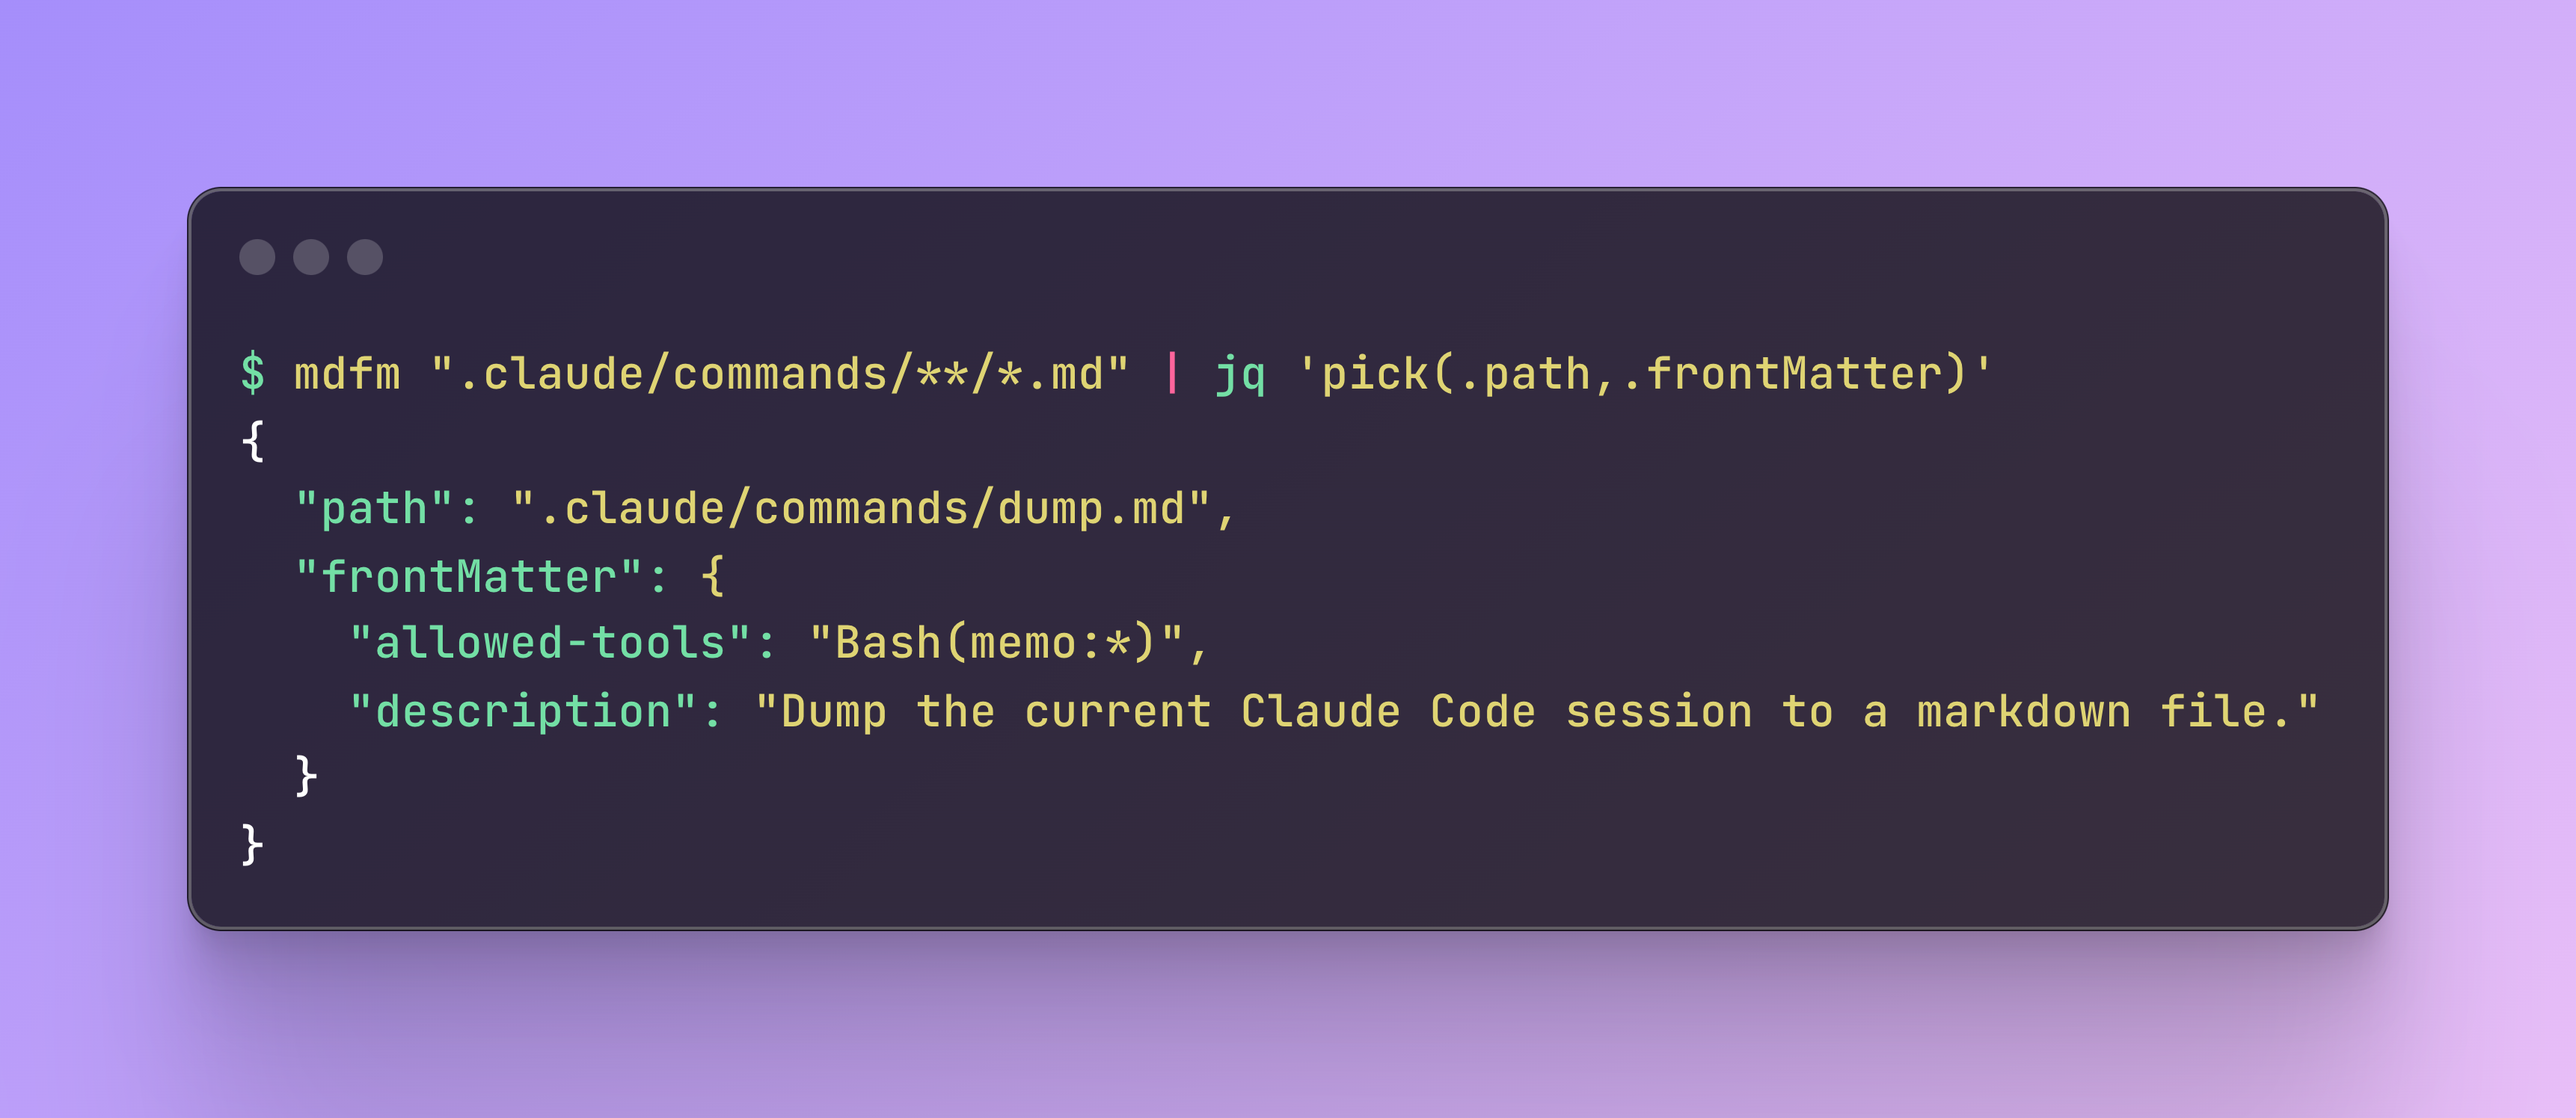
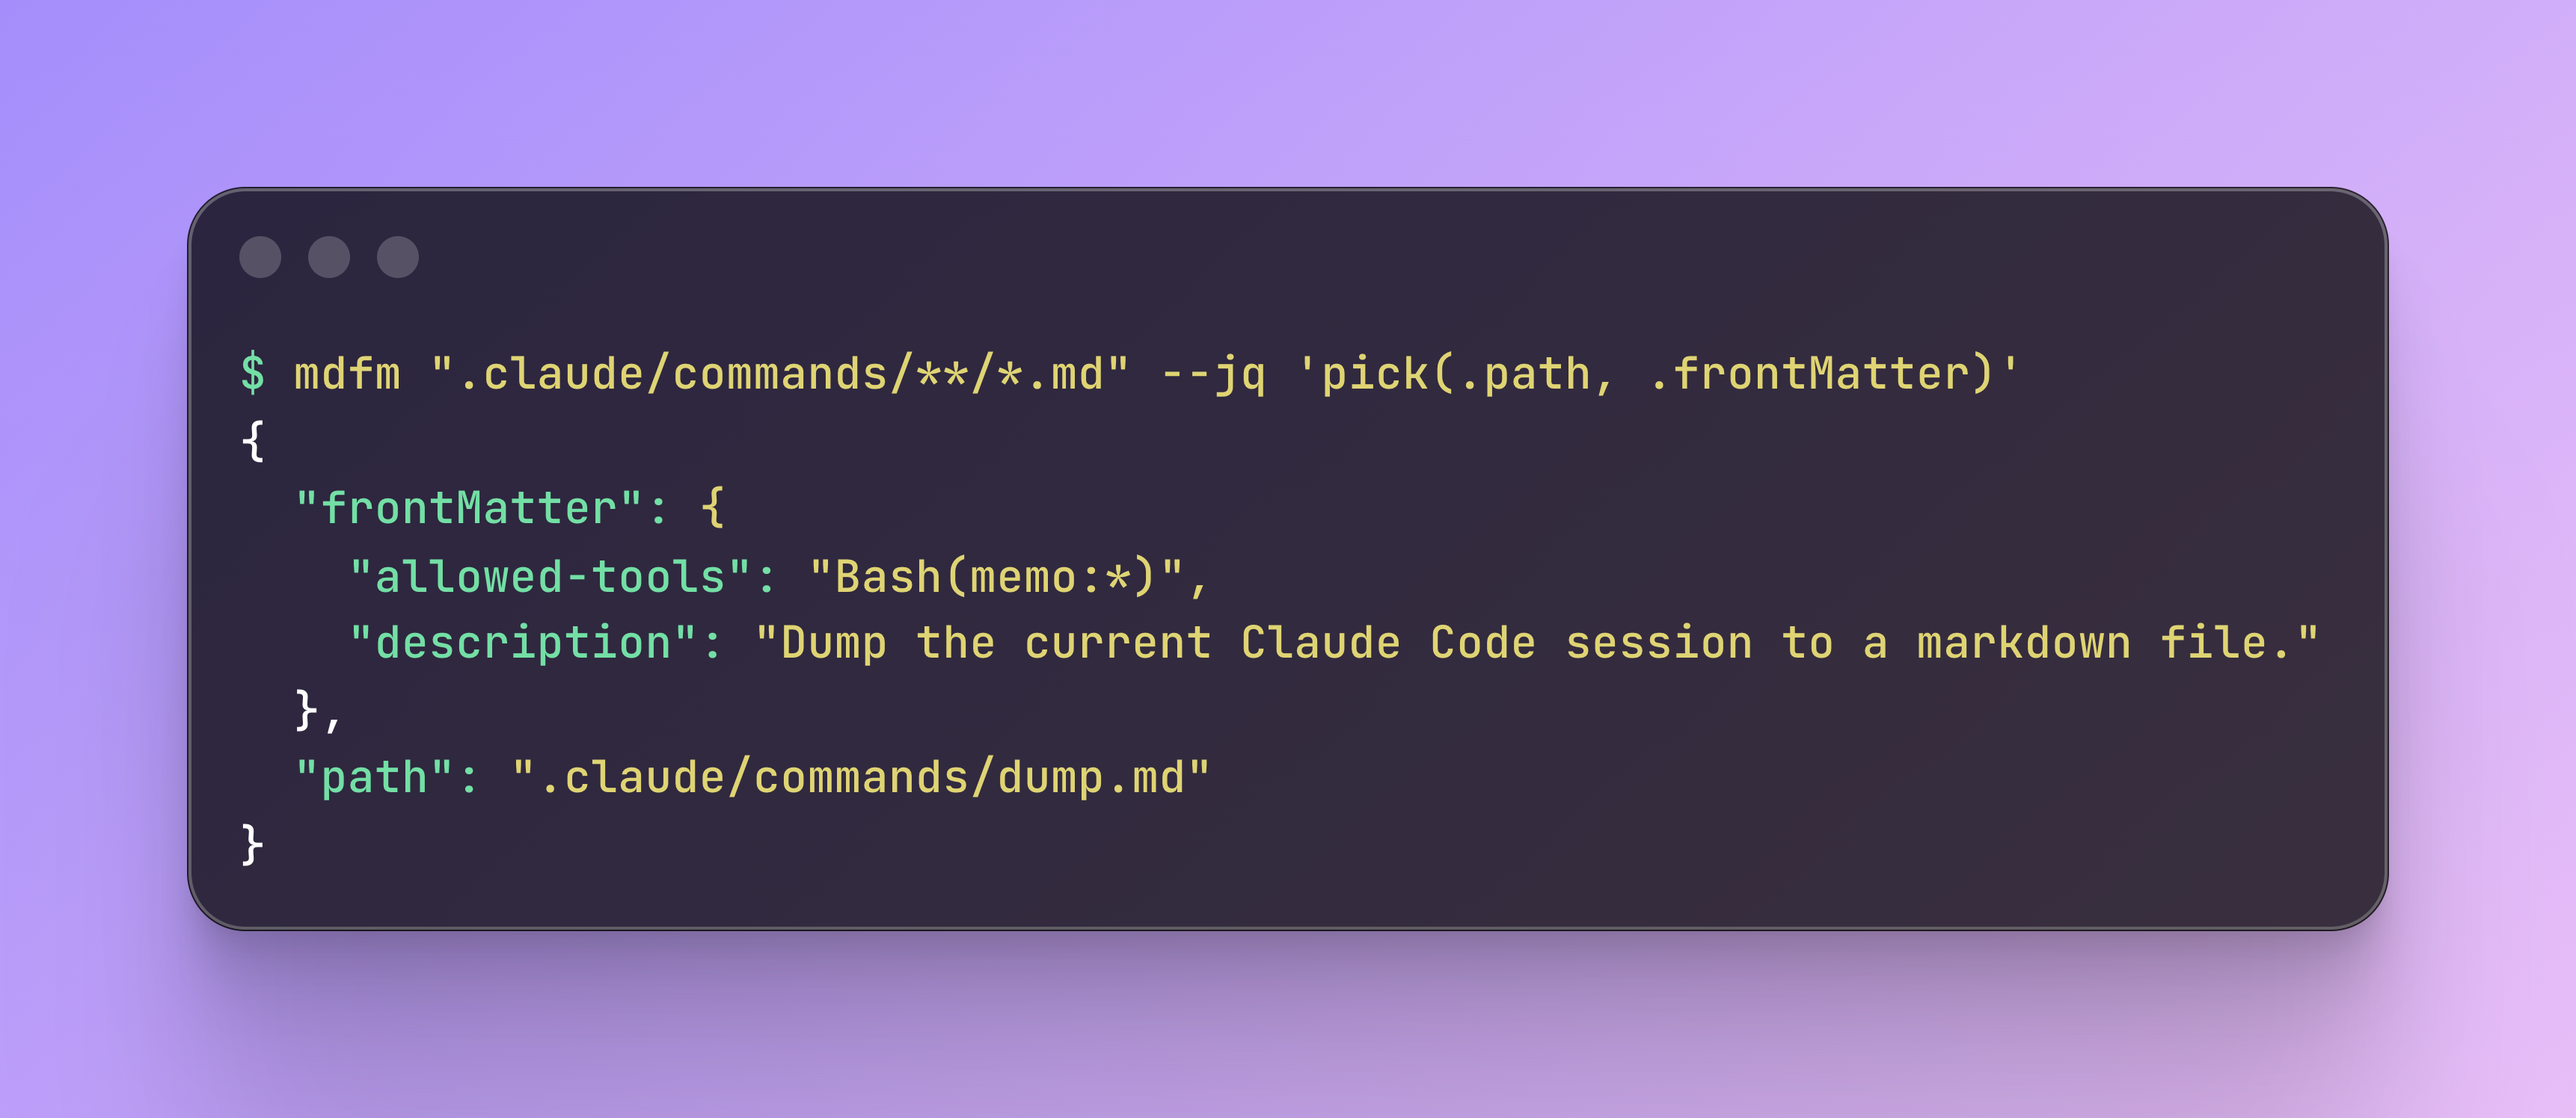
feat: filter output with jq via --jq flag (#26)
* chore(deps): add gojq

* feat: filter output with jq via --jq flag

* fix build config

* update image to use --jq flag

* fix err handling

* escape filter

* wrap err

diff --git a/cmd/mdfm/payload.go b/cmd/mdfm/payload.go
@@ -1,0 +1,88 @@
+package main
+
+import (
+	"encoding/json"
+	"errors"
+	"io"
+
+	"github.com/itchyny/gojq"
+)
+
+type (
+	jsonPayload struct {
+		Body        string `json:"body"`
+		Path        string `json:"path"`
+		FrontMatter any    `json:"frontMatter"`
+	}
+
+	// payloadPrinter writes a payload as JSON using a captured encoder.
+	payloadPrinter func(payload jsonPayload) error
+)
+
+// AsMap converts the jsonPayload struct to a map[string]any.
+func (p jsonPayload) AsMap() map[string]any {
+	jsonData, marshalErr := json.Marshal(p)
+	if marshalErr != nil {
+		return map[string]any{}
+	}
+
+	var result map[string]any
+	if err := json.Unmarshal(jsonData, &result); err != nil {
+		return map[string]any{}
+	}
+
+	return result
+}
+
+func NewAppropriatePrinter(output io.Writer, jqFilter string) (payloadPrinter, error) {
+	enc := json.NewEncoder(output)
+	enc.SetIndent("", "  ")
+
+	var jqCode *gojq.Code
+	if jqFilter != "" {
+		var jqErr error
+		jqCode, jqErr = prepareJQ(jqFilter)
+		if jqErr != nil {
+			return nil, jqErr
+		}
+	}
+
+	if jqCode != nil {
+		return newJQPrinter(enc, jqCode)
+	}
+	return newPassthroughPrinter(enc), nil
+}
+
+func newPassthroughPrinter(enc *json.Encoder) payloadPrinter {
+	return func(payload jsonPayload) error {
+		return enc.Encode(payload)
+	}
+}
+
+func newJQPrinter(enc *json.Encoder, jqCode *gojq.Code) (payloadPrinter, error) {
+	if jqCode == nil {
+		return nil, errors.New("jqCode must not be nil")
+	}
+
+	return func(payload jsonPayload) error {
+		iter := jqCode.Run(payload.AsMap())
+
+		for {
+			v, ok := iter.Next()
+			if !ok {
+				break
+			}
+			if err, isErr := v.(error); isErr {
+				var e *gojq.HaltError
+				if errors.As(err, &e) && e.Value() == nil {
+					break
+				}
+				return err
+			}
+			if err := enc.Encode(v); err != nil {
+				return err
+			}
+		}
+		return nil
+	}, nil
+}

diff --git a/cmd/mdfm/mdfm.go b/cmd/mdfm/mdfm.go
@@ -2,10 +2,8 @@ package main
 
 import (
 	"bufio"
-	"encoding/json"
 	"errors"
 	"fmt"
-	"io"
 	"os"
 	"syscall"
 
@@ -25,12 +23,8 @@ type (
 		Pattern string `arg:"" name:"pattern" help:"Glob pattern to match (eg. '**/*.md')"`
 
 		Version kong.VersionFlag `short:"v"`
-	}
 
-	jsonPayload struct {
-		Body        string `json:"body"`
-		Path        string `json:"path"`
-		FrontMatter any    `json:"frontMatter"`
+		JQ string `name:"jq" help:"jq filter to apply to each JSON object."`
 	}
 )
 
@@ -41,8 +35,6 @@ func (cmd *CLI) Run() error {
 	}
 
 	wtr := bufio.NewWriter(os.Stdout)
-	printer := newPassthroughPrinter(wtr)
-
 	defer func() {
 		if err := wtr.Flush(); err != nil {
 			if !errors.Is(err, syscall.EPIPE) {
@@ -50,6 +42,11 @@ func (cmd *CLI) Run() error {
 			}
 		}
 	}()
+
+	printer, printerErr := NewAppropriatePrinter(wtr, cmd.JQ)
+	if printerErr != nil {
+		return fmt.Errorf("failed to configure output printer: %w", printerErr)
+	}
 
 	var hasErrors bool
 	for task := range resultChan {
@@ -85,18 +82,6 @@ func (cmd *CLI) Run() error {
 	}
 
 	return nil
-}
-
-// jsonPrinter writes a payload as JSON using a captured encoder.
-type jsonPrinter func(payload jsonPayload) error
-
-func newPassthroughPrinter(output io.Writer) jsonPrinter {
-	enc := json.NewEncoder(output)
-	enc.SetIndent("", "  ")
-
-	return func(payload jsonPayload) error {
-		return enc.Encode(payload)
-	}
 }
 
 func main() {

diff --git a/cmd/mdfm/jq.go b/cmd/mdfm/jq.go
@@ -1,0 +1,21 @@
+package main
+
+import (
+	"fmt"
+	"os"
+
+	"github.com/itchyny/gojq"
+)
+
+func prepareJQ(filter string) (*gojq.Code, error) {
+	jqQuery, jqErr := gojq.Parse(filter)
+	if jqErr != nil {
+		return nil, fmt.Errorf("error parsing jq filter %q: %w", filter, jqErr)
+	}
+	jqCode, jqCompileErr := gojq.Compile(jqQuery, gojq.WithEnvironLoader(os.Environ))
+	if jqCompileErr != nil {
+		return nil, fmt.Errorf("error compiling jq filter %q: %w", filter, jqCompileErr)
+	}
+
+	return jqCode, nil
+}

diff --git a/README.md b/README.md
@@ -6,7 +6,7 @@
 
 **mdfm** is a Go library and CLI tool that finds Markdown files using glob patterns and extracts their frontmatter metadata as JSON.
 
-![command `go run github.com/sushichan044/mdfm/cmd/mdfm@latest ".claude/commands/**/*.md" | jq 'pick(.path,.frontMatter)'` results: `{"path":".claude/commands/dump.md","frontMatter":{"allowed-tools":"Bash(memo:*)","description":"Dump the current Claude Code session to a markdown file."}}`](/docs/images/example.png)
+![command `go run github.com/sushichan044/mdfm/cmd/mdfm@latest ".claude/commands/**/*.md" --jq 'pick(.path, .frontMatter)'` results: `{"path":".claude/commands/dump.md","frontMatter":{"allowed-tools":"Bash(memo:*)","description":"Dump the current Claude Code session to a markdown file."}}`](/docs/images/example.png)
 
 ## Features
 
@@ -70,6 +70,15 @@ mdfm "README.md"
 
 # Find files with specific pattern
 mdfm "content/**/{blog,docs}/*.md"
+
+# Extract only titles using jq filter
+mdfm "content/posts/*.md" --jq '.frontMatter.title'
+
+# Extract multiple fields using jq
+mdfm "**/*.md" --jq 'pick(.path, .frontMatter.title, .frontMatter.tags)'
+
+# Filter published posts
+mdfm "content/**/*.md" --jq 'select(.frontMatter.published == true)'
 ```
 
 ### Output Format
@@ -79,7 +88,7 @@ The CLI outputs JSON lines, with each line containing:
 > [!WARNING]
 > `body` contains the main content of the Markdown file, excluding the frontmatter.
 >
-> Since this typically produces lengthy text, it's strongly recommended to use [jq](https://github.com/jqlang/jq) in conjunction to process only the required data.
+> Since this typically produces lengthy text, it's strongly recommended to use the built-in `--jq` filter option or external [jq](https://github.com/jqlang/jq) to process only the required data.
 
 ```json
 {
@@ -101,6 +110,9 @@ mdfm --version
 
 # Show help
 mdfm --help
+
+# Apply jq filter to each JSON object
+mdfm "**/*.md" --jq '.frontMatter.title'
 ```
 
 ## Library Usage
@@ -277,7 +289,7 @@ mise run lint
 The project uses `mise` for task management:
 
 ```bash
-mise run dev "**/*.md" --json  # Run CLI locally
+mise run dev "**/*.md" # Run CLI locally
 mise run test                  # Run tests
 mise run test-coverage         # Run tests with coverage
 mise run lint                  # Run linter
